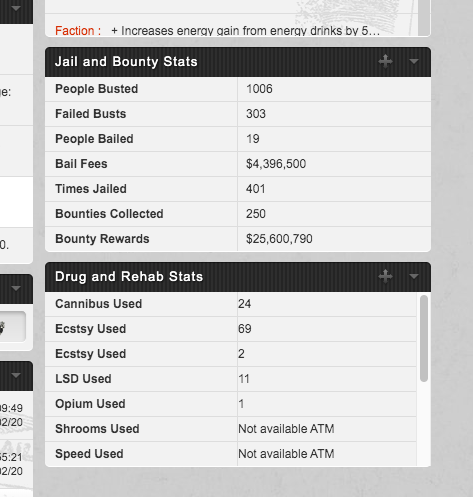
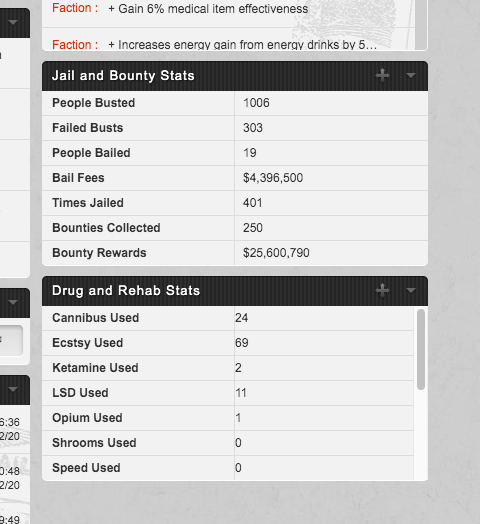
Some  refactoring, add missing drug keys
Since I haven't used shrooms, speed, or PCP, I did not have the keys for then now those three are functional. Also factored out the switch statement. TBD: cache the first Torn API query to reduce queries from 14 to 1.

diff --git a/DrugStats/Torn Drug Stats.user.js b/DrugStats/Torn Drug Stats.user.js
@@ -1,7 +1,7 @@
 // ==UserScript==
 // @name         Torn Drug Stats
 // @namespace    http://tampermonkey.net/
-// @version      0.1
+// @version      0.2
 // @description  Adds drug stats to the home page: drugs used, OD's, Rehabs and rehab total cost to date.
 // @author       xedx [2100735]
 // @include      https://www.torn.com/index.php
@@ -135,7 +135,7 @@
 
         cannibusLi.appendChild(createDividerSpan('Cannibus Used'));
         ecstasyLi.appendChild(createDividerSpan('Ecstsy Used'));
-        ketamineLi.appendChild(createDividerSpan('Ecstsy Used'));
+        ketamineLi.appendChild(createDividerSpan('Ketamine Used'));
         lsdLi.appendChild(createDividerSpan('LSD Used'));
         opiumLi.appendChild(createDividerSpan('Opium Used'));
         shroomsLi.appendChild(createDividerSpan('Shrooms Used'));
@@ -153,12 +153,9 @@
         ketamineLi.appendChild(createValueSpan('kettaken'));
         lsdLi.appendChild(createValueSpan('lsdtaken'));
         opiumLi.appendChild(createValueSpan('opitaken'));
-
-        // Haven't found key for these yet
-        shroomsLi.appendChild(createValueSpan('', false));
-        speedLi.appendChild(createValueSpan('', false));
-        pcpLi.appendChild(createValueSpan('', false));
-
+        shroomsLi.appendChild(createValueSpan('shrtaken'));
+        speedLi.appendChild(createValueSpan('spetaken', false));
+        pcpLi.appendChild(createValueSpan('pcptaken', false));
         xanaxLi.appendChild(createValueSpan('xantaken'));
         vicodinLi.appendChild(createValueSpan('victaken'));
         totalTakenLi.appendChild(createValueSpan('drugsused'));
@@ -196,7 +193,7 @@
     }
 
     function createValueSpan(item, query=true) {
-        var value = "Not available ATM";
+        var value = "0";
         if (query) {
             value = queryPersonalStats(item);
         }
@@ -235,9 +232,13 @@
 
         personalStatsQuery(name); // Callback will set the correct values.
 
-        return 'Please wait...';
+        //return 'Please wait...';
+        return "0";
     }
 
+    // This should only be done once, just save the result.
+    // I'll do that later when I have to refactor again.
+    // Currently executes 14 requests.
     function personalStatsQuery(name) {
         var details = GM_xmlhttpRequest({
             method:"POST",
@@ -267,6 +268,8 @@
     function personalStatsQueryCB(responseText, name) {
         var jsonResp = JSON.parse(responseText);
 
+        console.log('Torn Drug Stats, personalStatsQueryCB, name: ' + name);
+
         if (jsonResp.error) {
             return handleError(responseText);
         }
@@ -279,65 +282,18 @@
             return;
         }
 
-        switch (name) {
-            case 'rehabs':
-                valSpan.innerText = stats.rehabs;
-                return jsonResp.rehabs;
-                break;
-            case 'opitaken':
-                valSpan.innerText = stats.opitaken;
-                return jsonResp.opitaken;
-                break;
-            case 'lsdtaken':
-                valSpan.innerText = stats.lsdtaken;
-                return jsonResp.lsdtaken;
-                break;
-            case 'overdosed':
-                valSpan.innerText = stats.overdosed;
-                return jsonResp.overdosed;
-                break;
-            case 'rehabcost':
-                var ret = '$' + numberWithCommas(stats.rehabcost);
-                valSpan.innerText = ret;
-                return jsonResp.rehabcost;
-                break;
-            case 'drugsused':
-                valSpan.innerText = stats.drugsused;
-                return jsonResp.drugsused;
-                break;
-            case 'victaken':
-                valSpan.innerText = stats.victaken;
-                return jsonResp.victaken;
-                break;
-            case 'xantaken':
-                valSpan.innerText = stats.xantaken;
-                return jsonResp.victaken;
-                break;
-            case 'exttaken':
-                valSpan.innerText = stats.exttaken;
-                return jsonResp.victaken;
-                break;
-            case 'kettaken':
-                valSpan.innerText = stats.kettaken;
-                return jsonResp.victaken;
-                break;
-            case 'cantaken':
-                valSpan.innerText = stats.cantaken;
-                return jsonResp.cantaken;
-                break;
-
-            // Dont know what these are yet...
-            case 'shroomstaken':
-                break;
-            case 'speedtaken':
-                break;
-            case 'lsdtaken':
-                break;
-
-            default:
-                return 'Bad Param';
-                break;
+        // If this fails, have never used this drug. Not an error.
+        if (!validPointer(stats[name])) {
+            return "0";
         }
+
+        if (!name.localeCompare('rehabcost')) {
+            valSpan.innerText = '$' + numberWithCommas(stats[name]);
+        } else {
+            valSpan.innerText = stats[name];
+        }
+
+    return jsonResp.name;
     }
 
     //////////////////////////////////////////////////////////////////////
@@ -381,7 +337,7 @@
             return handleError(responseText);
         }
 
-        console.log('Torn Drug Stats, realBasicQueryCB');
+        console.log('Torn Drug Stats, realBasicQueryCB (travelling check)');
 
         var stats = jsonResp.travel;
         console.log('  Destination: ' + stats.destination +
